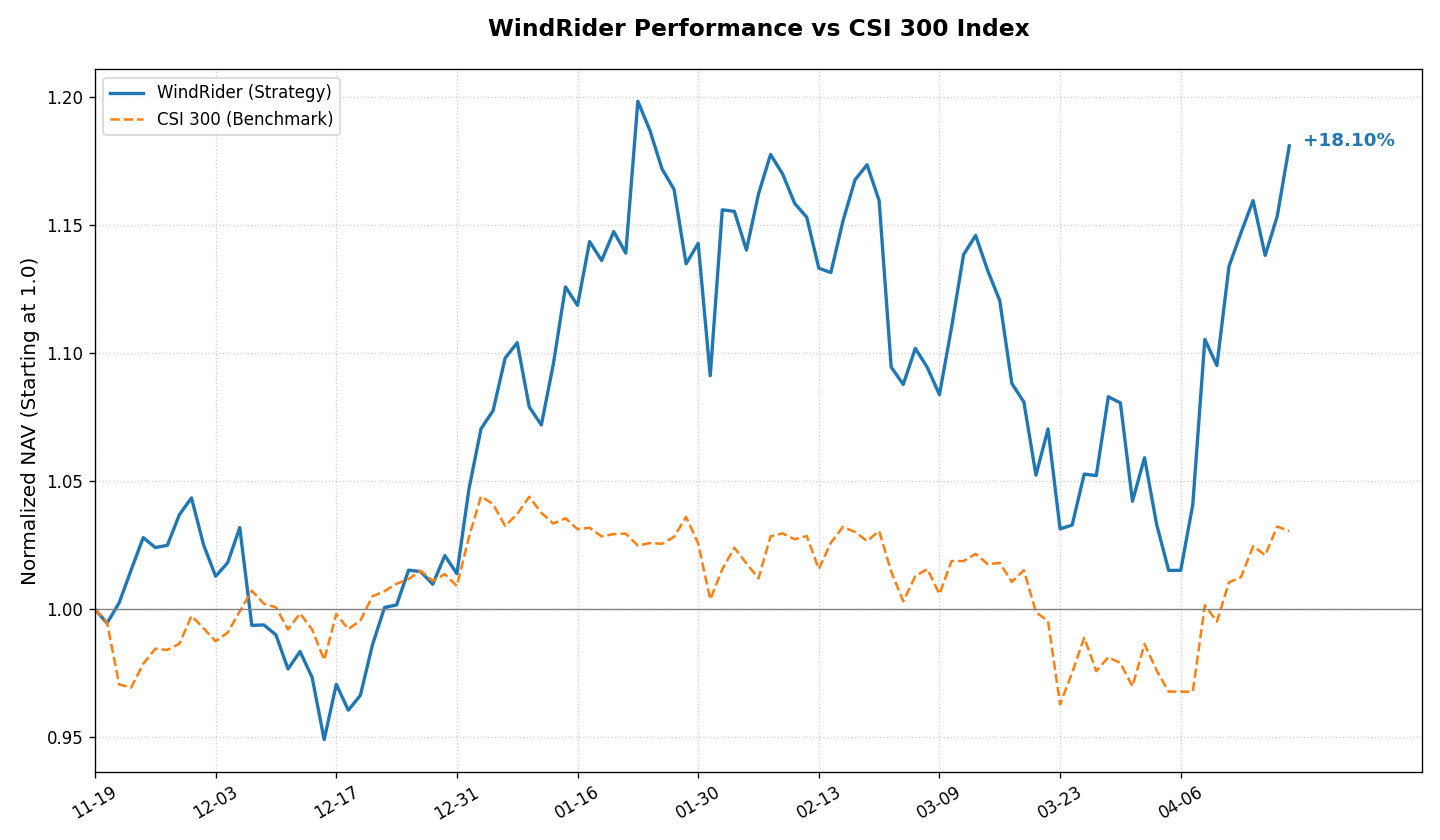
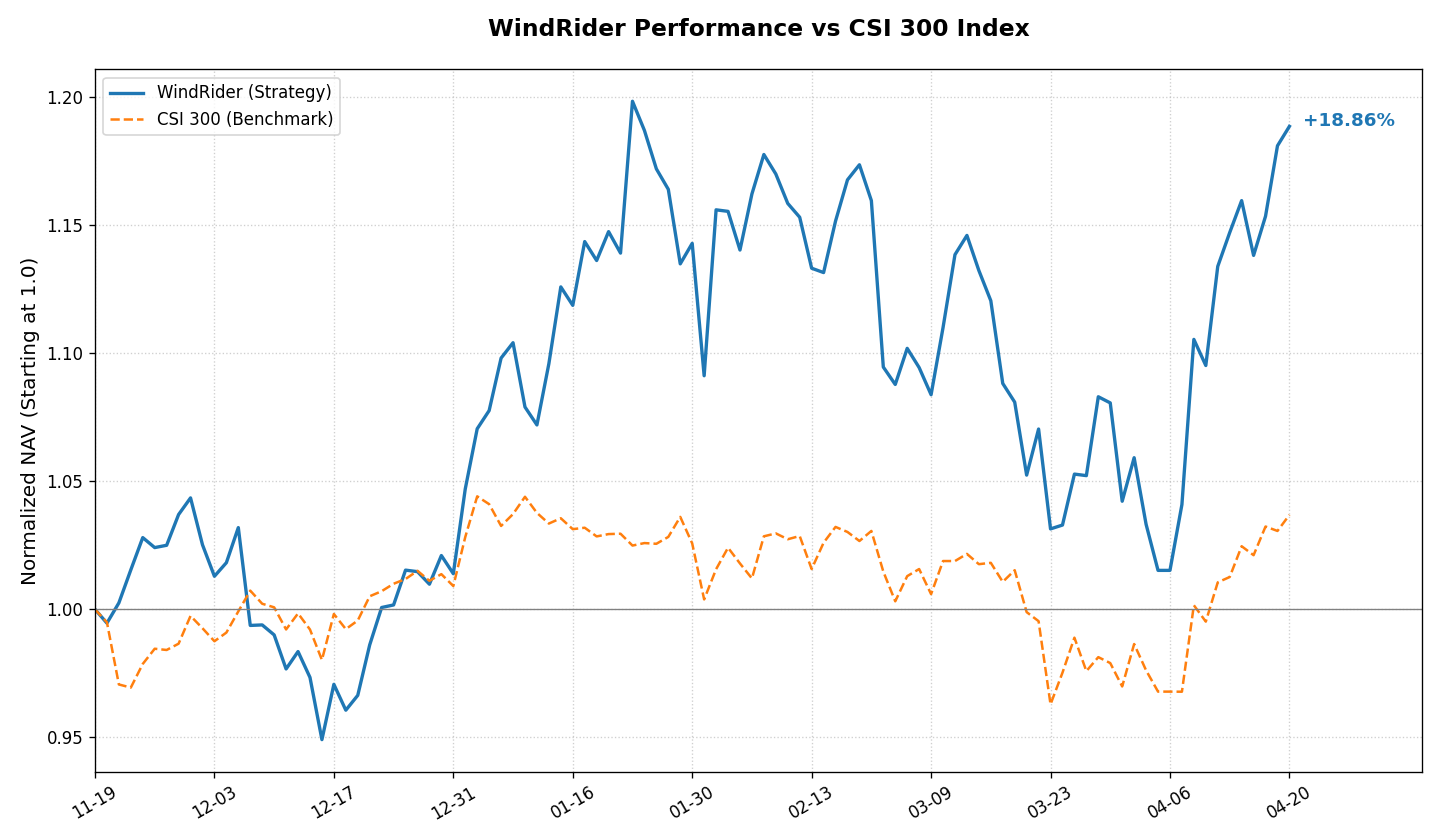
Updated Hugo site content

diff --git a/content/investment/position.md b/content/investment/position.md
@@ -1,8 +1,8 @@
 +++
 title = "如山-股票组合持仓 /// Position"
 summary = "主动管理型股票组合。对标沪深300指数，采用基本面选股策略。"
-date = 2026-04-17T15:12:04+08:00
-lastmod = 2026-04-17T15:12:04+08:00
+date = 2026-04-20T15:12:05+08:00
+lastmod = 2026-04-20T15:12:05+08:00
 draft = false
 description = "如山股票组合持仓"
 +++
@@ -12,30 +12,30 @@ description = "如山股票组合持仓"
 
 ### 如山股票组合 &nbsp;&nbsp;<span style="color: #E63946; font-weight: bold;">/</span><span style="color: #F1A73E; font-weight: bold;">/</span><span style="color: #000091; font-weight: bold;">/</span>&nbsp;&nbsp; 每日持仓
 WindRider Equity Portfolio <br>
-净值简报 <small>(截至: 2026-04-17)</small>
+净值简报 <small>(截至: 2026-04-20)</small>
 
 |  |  |
 | :--- | :--- |
 | **指数代码：** | WDR.EQ |
 | **成立日期：** | 2025-11-19 |
-| **最新净值：** | 1.1810 |
-| **今日涨跌：** | +2.38% |
+| **最新净值：** | 1.1886 |
+| **今日涨跌：** | +0.64% |
 
 ===========================
 
 | 核心表现 | |
 | :--- | :--- |
-| **累计收益：** | +18.10% |
-| **年化收益：** | +50.31% |
+| **累计收益：** | +18.86% |
+| **年化收益：** | +51.42% |
 | **最大回撤：** | -15.29% |
-| **基准点位：** | 4728.67 (CSI300) |
-| **策略状态：** | 已运行 150 天 |
+| **基准点位：** | 4757.44 (CSI300) |
+| **策略状态：** | 已运行 153 天 |
 
 ### 持仓明细
 | 股票名称 | 成本价 | 现价 | 盈亏 | 占比 |
 | :--- | :--- | :--- | :--- | :--- | :--- |
-| 先导智能 <small>300450</small> | 52.20 | 56.00 | <span style="color:#E63946">+7.28%</span> | 62.46% |
-| 比亚迪 <small>002594</small> | 100.19 | 103.78 | <span style="color:#E63946">+3.58%</span> | 16.54% |
+| 先导智能 <small>300450</small> | 52.20 | 56.70 | <span style="color:#E63946">+8.62%</span> | 62.84% |
+| 比亚迪 <small>002594</small> | 100.19 | 102.91 | <span style="color:#E63946">+2.71%</span> | 16.29% |
 
 <br>
 
